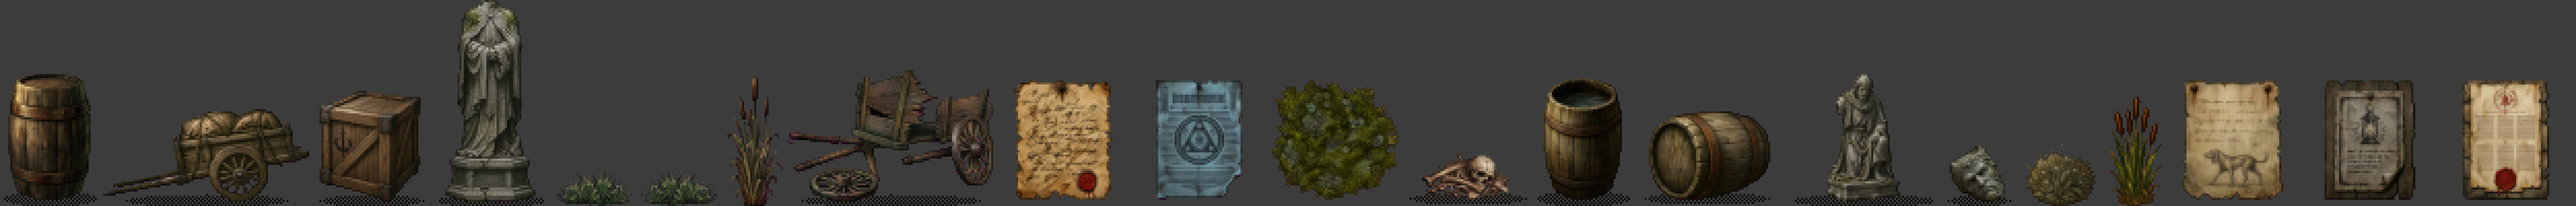
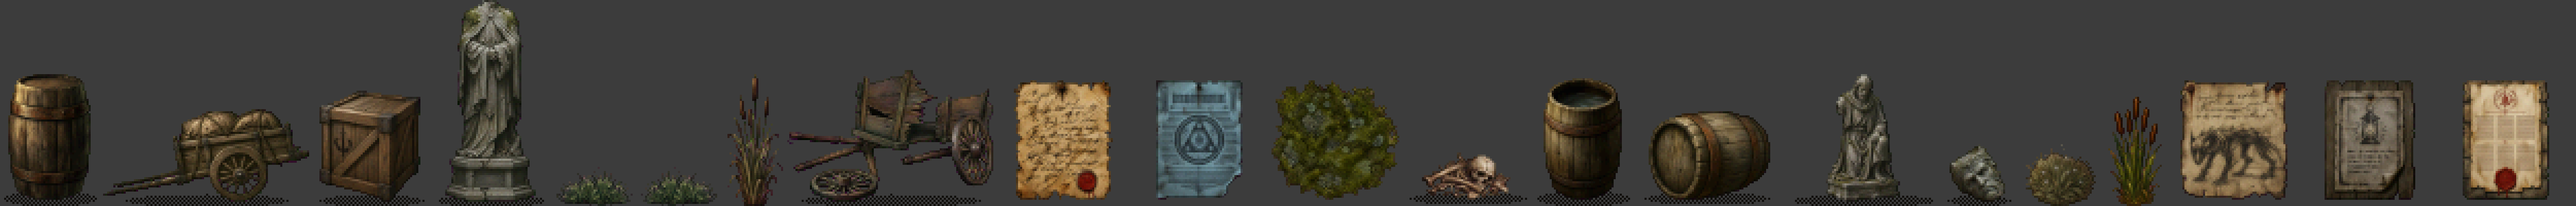
Art: poster two's sketch is a Dissonance Hound, not a dog
Repainted at the owner's request: a ragged, too-long, approximately canine
shape in broken charcoal strokes (Vol II: 'built of overlapping wrong notes
the eye keeps failing to resolve into fur').

Claude-Session: https://claude.ai/code/session_01BVzyvAqHcu7M4NDDh1GVjc

Changed region(s): [[0.8424, 0.39, 0.9048, 0.99]]

diff --git a/sw.js b/sw.js
@@ -18,7 +18,7 @@
 //
 // <precache:begin>
 // Generated by tools/pwa/precache.js from index.html and the asset folders. Do not edit by hand; run the tool.
-const BUILD = "ec0c694fe227";
+const BUILD = "4617eb29b905";
 const MEDIA_BUILD = "3057f69a4556";
 const MEDIA_BYTES = 56299376;
 const CORE = [
